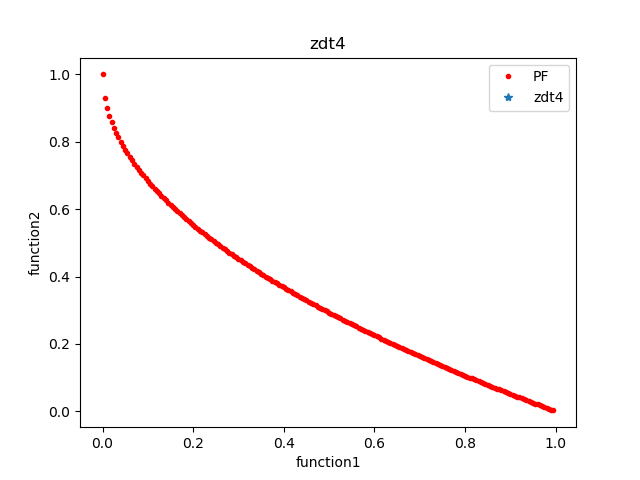
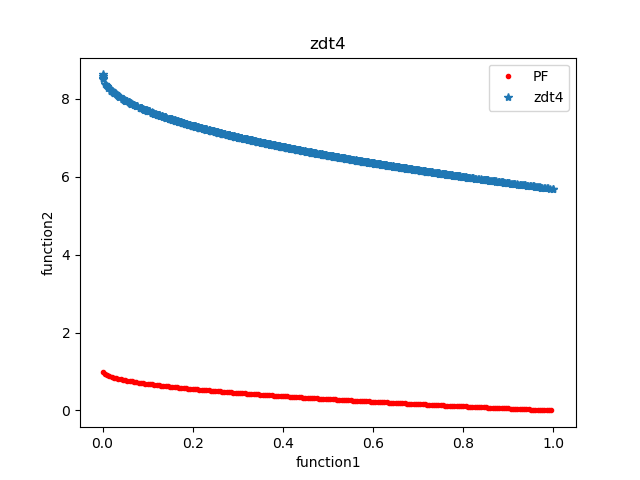
add

diff --git a/MOEA-D/main.py b/MOEA-D/main.py
@@ -219,7 +219,7 @@ class MOEAD:
         for i in range(len(ep)):
             f1 = ep[i].f[0]
             f2 = ep[i].f[1]
-            if f1 <= 1 and f2 <= 1:
+            if f1 <= 1 and f2 <= 1 or self.test_func is  TestFunc.type_zdt4:
                 x.append(f1)
                 y.append(f2)
         pareto = np.loadtxt("pareto/{}.txt".format(self.test_func))
